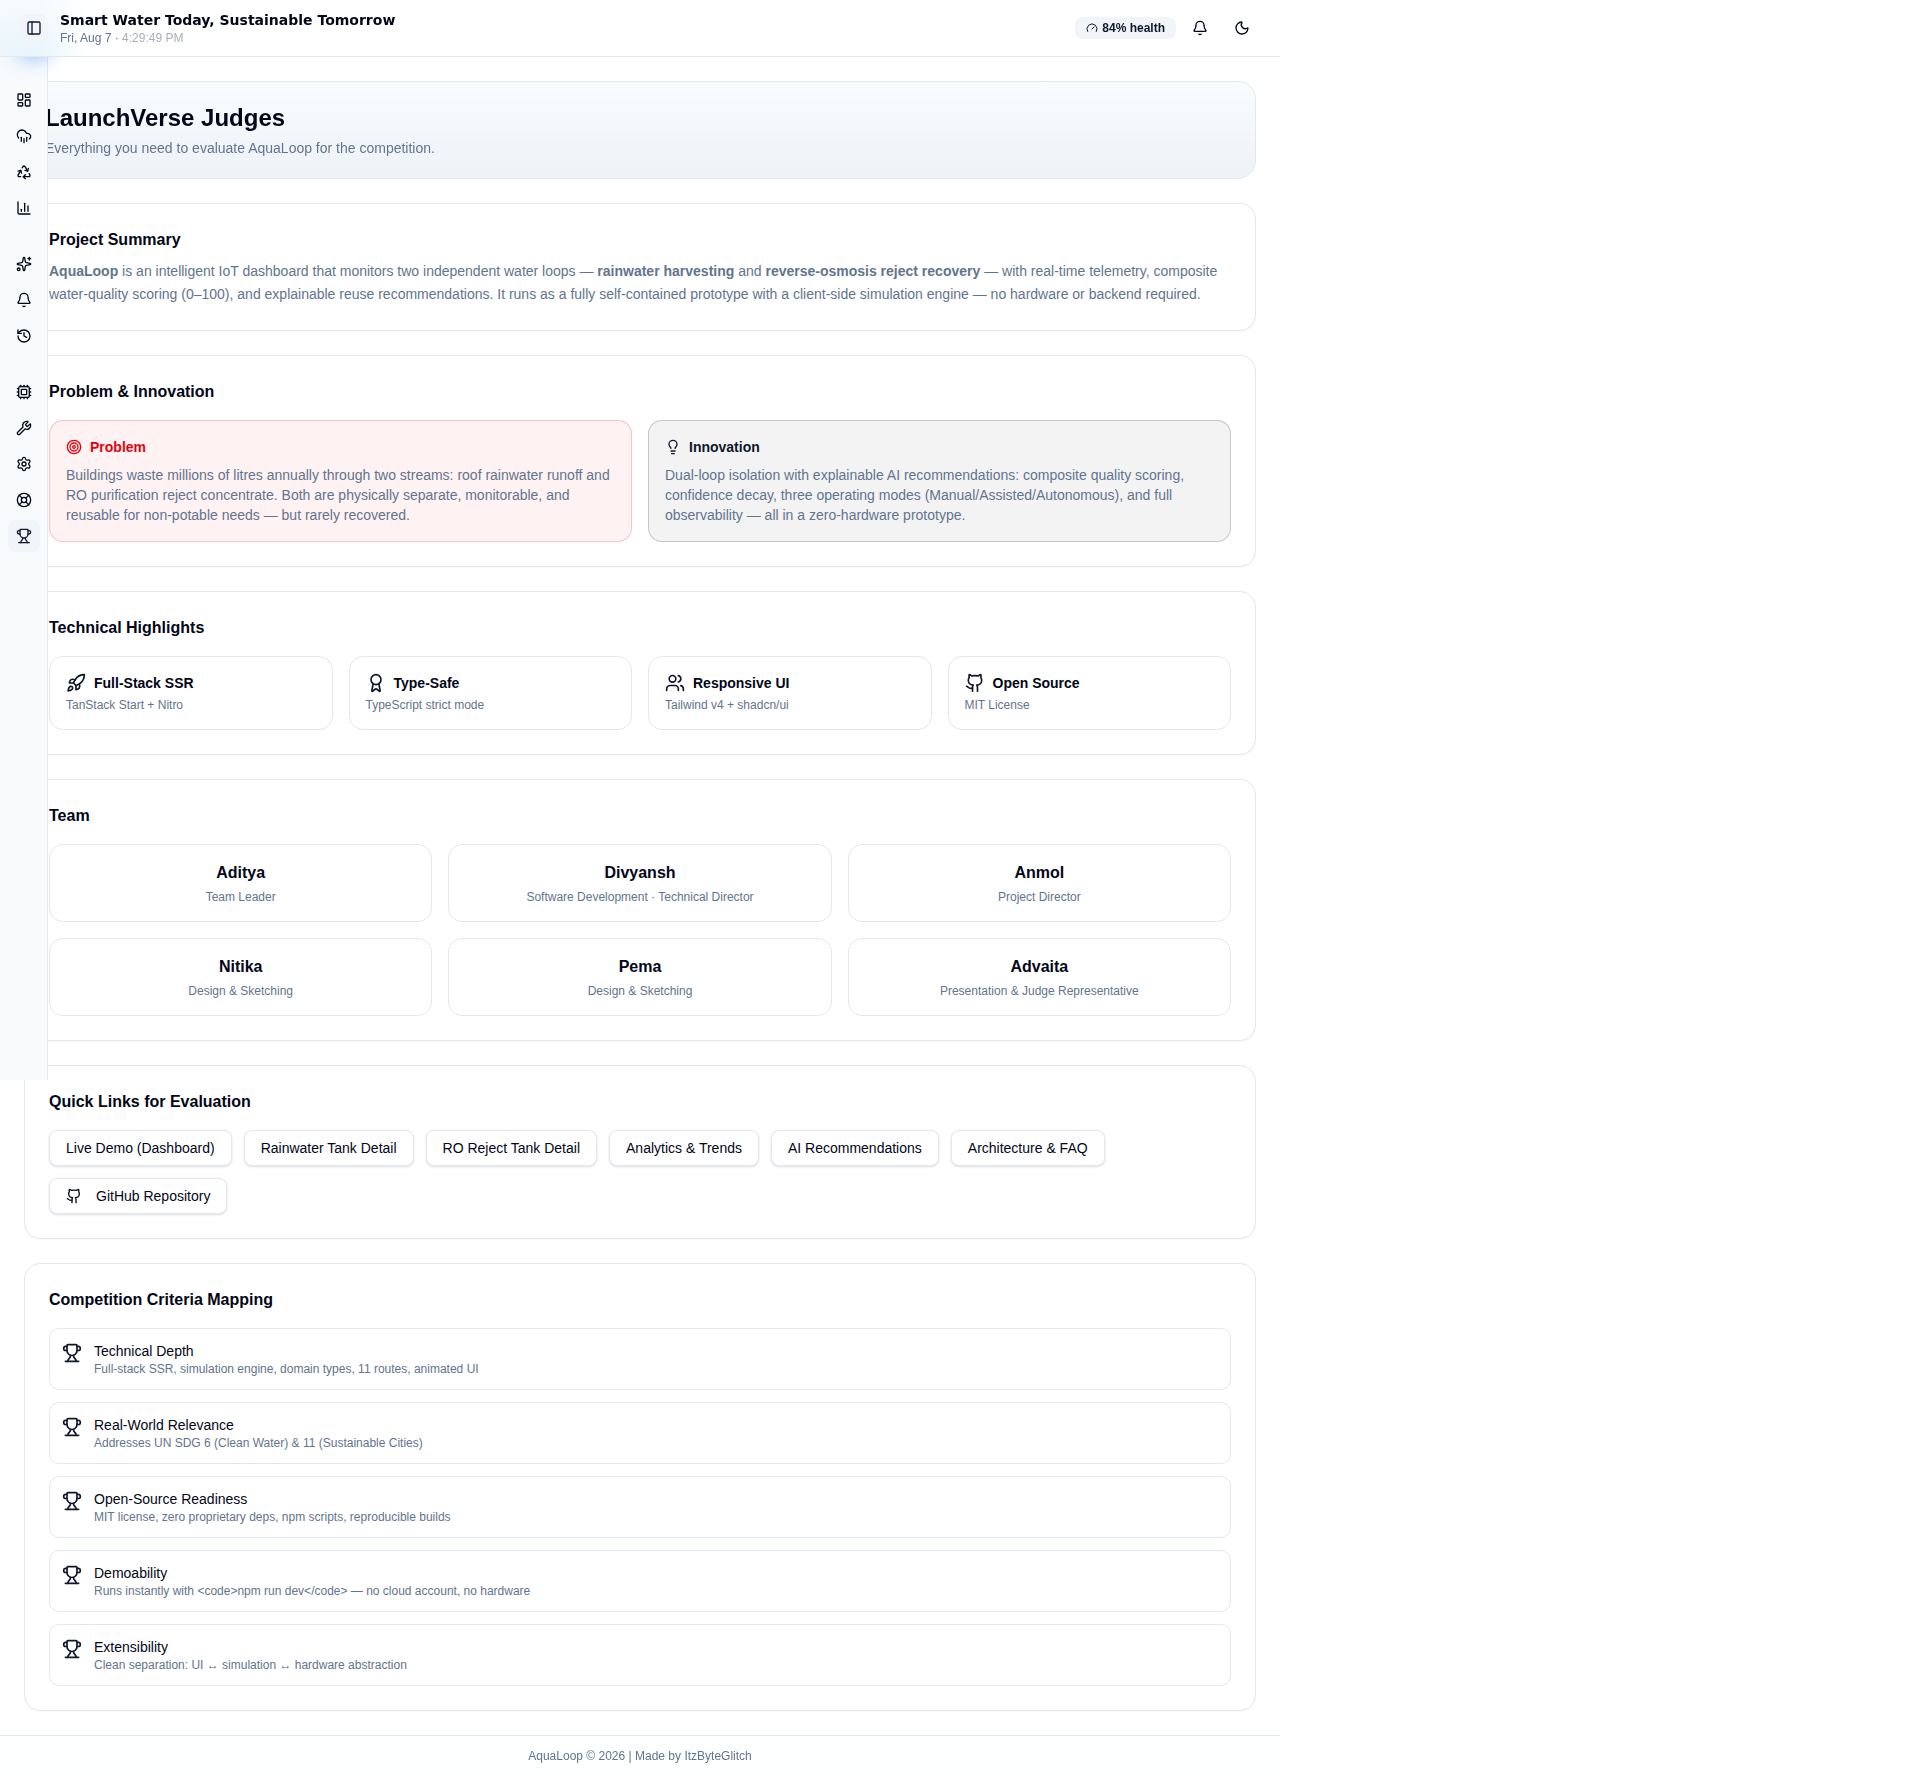
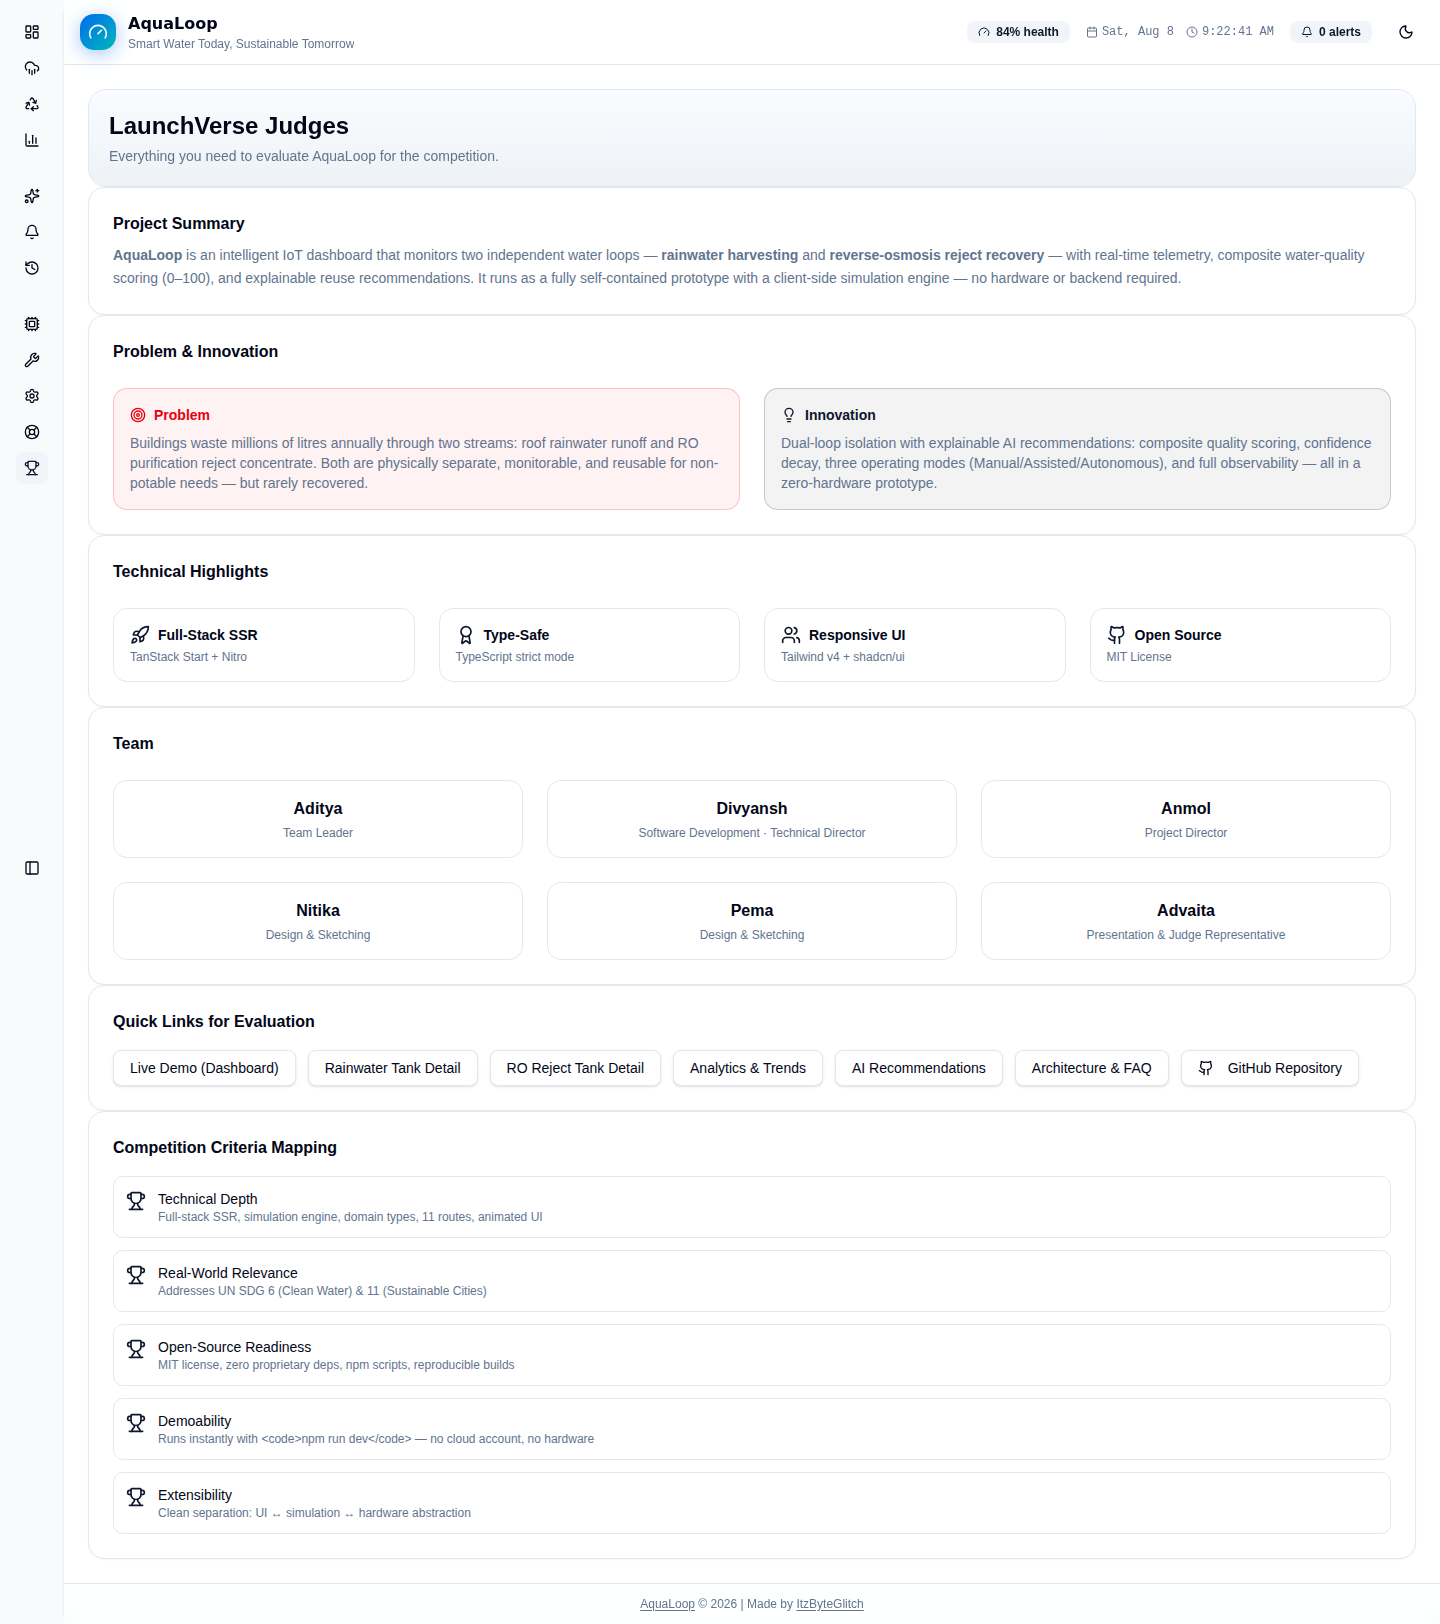
docs: refresh screenshots from live preview deployment
Re-capture all page screenshots via Playwright against the deployed
Cloudflare Pages preview and link it from the README.

diff --git a/README.md b/README.md
@@ -354,6 +354,8 @@ npm run format    # Prettier --write
 
 ## Screenshots
 
+> Live preview: [e52beebc.aqualoop-e8n.pages.dev](https://e52beebc.aqualoop-e8n.pages.dev)
+
 ### Dashboard
 ![Dashboard](docs/dashboard.png)
 
